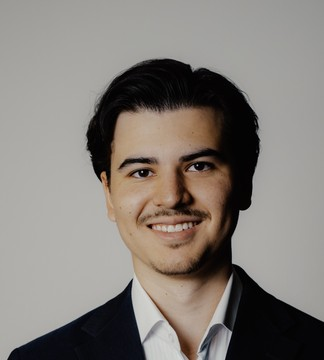
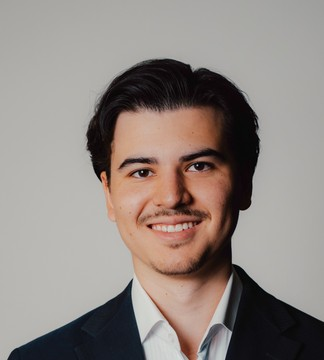
Portrait von Rec.2020 nach sRGB umgerechnet, Abschlusssatz in der Ueber-Sektion entfernt

diff --git a/fr/index.html b/fr/index.html
@@ -578,7 +578,6 @@
           <div>Accès direct aux marques en expansion et aux acheteurs institutionnels</div>
           <div>Investissements pour compte propre — nous comprenons les deux côtés de la table</div>
         </div>
-        <p>Des circuits courts, des messages clairs, une exécution engageante : vous parlez directement avec le propriétaire — du premier entretien à l’acte authentique.</p>
       </div>
     </div>
   </div>

diff --git a/it/index.html b/it/index.html
@@ -578,7 +578,6 @@
           <div>Accesso diretto a marchi in espansione e acquirenti istituzionali</div>
           <div>Investimenti propri — comprendiamo entrambi i lati del tavolo</div>
         </div>
-        <p>Percorsi brevi, dichiarazioni chiare, esecuzione vincolante: Lei parla direttamente con il titolare — dal primo colloquio fino al rogito.</p>
       </div>
     </div>
   </div>

diff --git a/index.html b/index.html
@@ -578,7 +578,6 @@
           <div>Direkter Zugang zu expandierenden Marken und institutionellen Käufern</div>
           <div>Eigene Investments — wir verstehen beide Seiten des Tisches</div>
         </div>
-        <p>Kurze Wege, klare Aussagen, verbindliche Abwicklung: Sie sprechen direkt mit dem Inhaber — vom ersten Gespräch bis zur Beurkundung.</p>
       </div>
     </div>
   </div>

diff --git a/en/index.html b/en/index.html
@@ -578,7 +578,6 @@
           <div>Direct access to expanding brands and institutional buyers</div>
           <div>Own investments — we understand both sides of the table</div>
         </div>
-        <p>Short paths, clear answers, binding execution: you speak directly with the owner — from the first conversation to notarisation.</p>
       </div>
     </div>
   </div>
